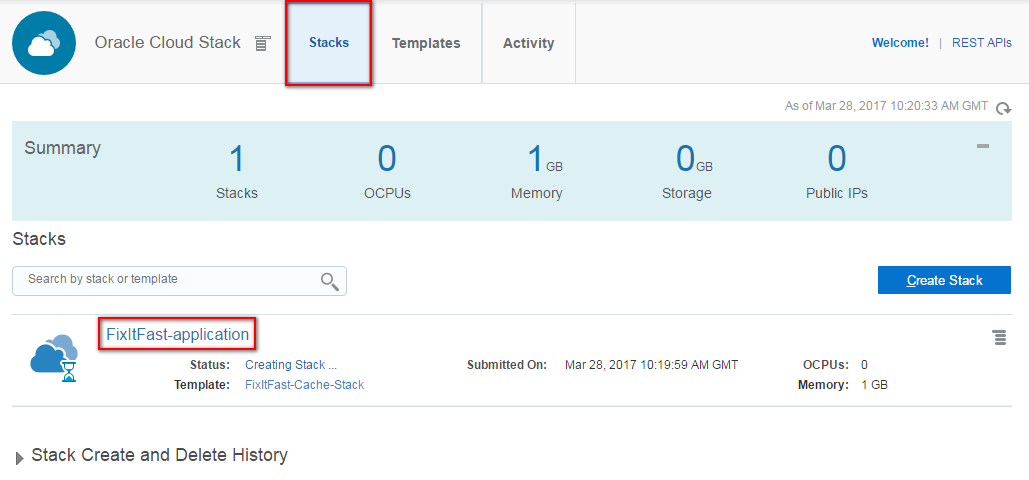
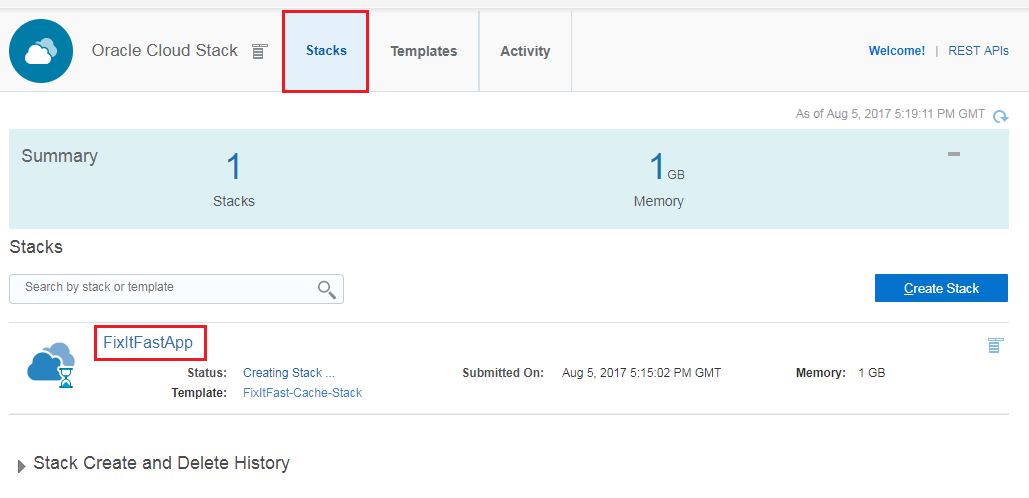
'-' not allowed in stack name, pics updated

diff --git a/stack/stack.cache.md b/stack/stack.cache.md
@@ -46,9 +46,9 @@ Click **Next** and select *Initial Repository* as template.
 
 ![](images/04.select.template.png)
 
-Click **Next** and on the Properties page select *MARKDOWN* as Wiki Markup and select *Import existing repository* to copy existing repository in this new project. Enter or copy the *https://github.com/oracle/cloud-native-devops-workshop.git* repository address.
+Click **Next** and on the Properties page select *MARKDOWN* as Wiki Markup and select *Import existing repository* to copy existing repository in this new project. Enter or copy the *https://github.com/nagypeter/cloud-native-devops-workshop.git* repository address.
 
-![](images/05.import.repository.png)
+![](images/05.import.np.repository.png)
 
 Now click **Finish** to create the project and to clone the specified repository.
 
@@ -311,7 +311,7 @@ Now create stack using the imported , custom stack template. Click the drop down
 
 ![](images/28.create.stack.cache.png)
 
-The Create New Oracle Cloud Stack — Details page is displayed. Enter *FixItFast-application* as **Name**  and optional **Description** for the stack. Do not select **On Failure Retain Resources** otherwise the stack creation fails, any resources that were created will not be automatically deleted.
+The Create New Oracle Cloud Stack — Details page is displayed. Enter *FixItFastApp* as **Name**  and optional **Description** for the stack. Do not select **On Failure Retain Resources** otherwise the stack creation fails, any resources that were created will not be automatically deleted.
 The rest of the parameters are specific to the template you imported. If you haven't changed the storage container build parameter and the stack template configuration file you can accept the default values. Click **Next**.
 
 ![](images/29.stack.details.cache.png)
@@ -320,7 +320,7 @@ The Create New Oracle Cloud Stack — Confirmation page is displayed. Review the
 
 ![](images/30.confirm.cache.png)
 
-To check the stack status by services go back to the **Stacks** page and click the **FixItFast-application** stack.
+To check the stack status by services go back to the **Stacks** page and click the **FixItFastApp** stack.
 
 ![](images/31.creating.stack.cache.png)
 
@@ -356,7 +356,7 @@ Note the first customer's name. In this demo it is *Bob Smith*. You will update 
 
 ![](images/39.customers.png)
 
-Go back to the  FixItFast-application's Stack detail page find the *backendCacheJava* application and click it's URL.
+Go back to the  FixItFastApp's Stack detail page find the *backendCacheJava* application and click it's URL.
 
 ![](images/40.backendjava.url.cache.png)
 
